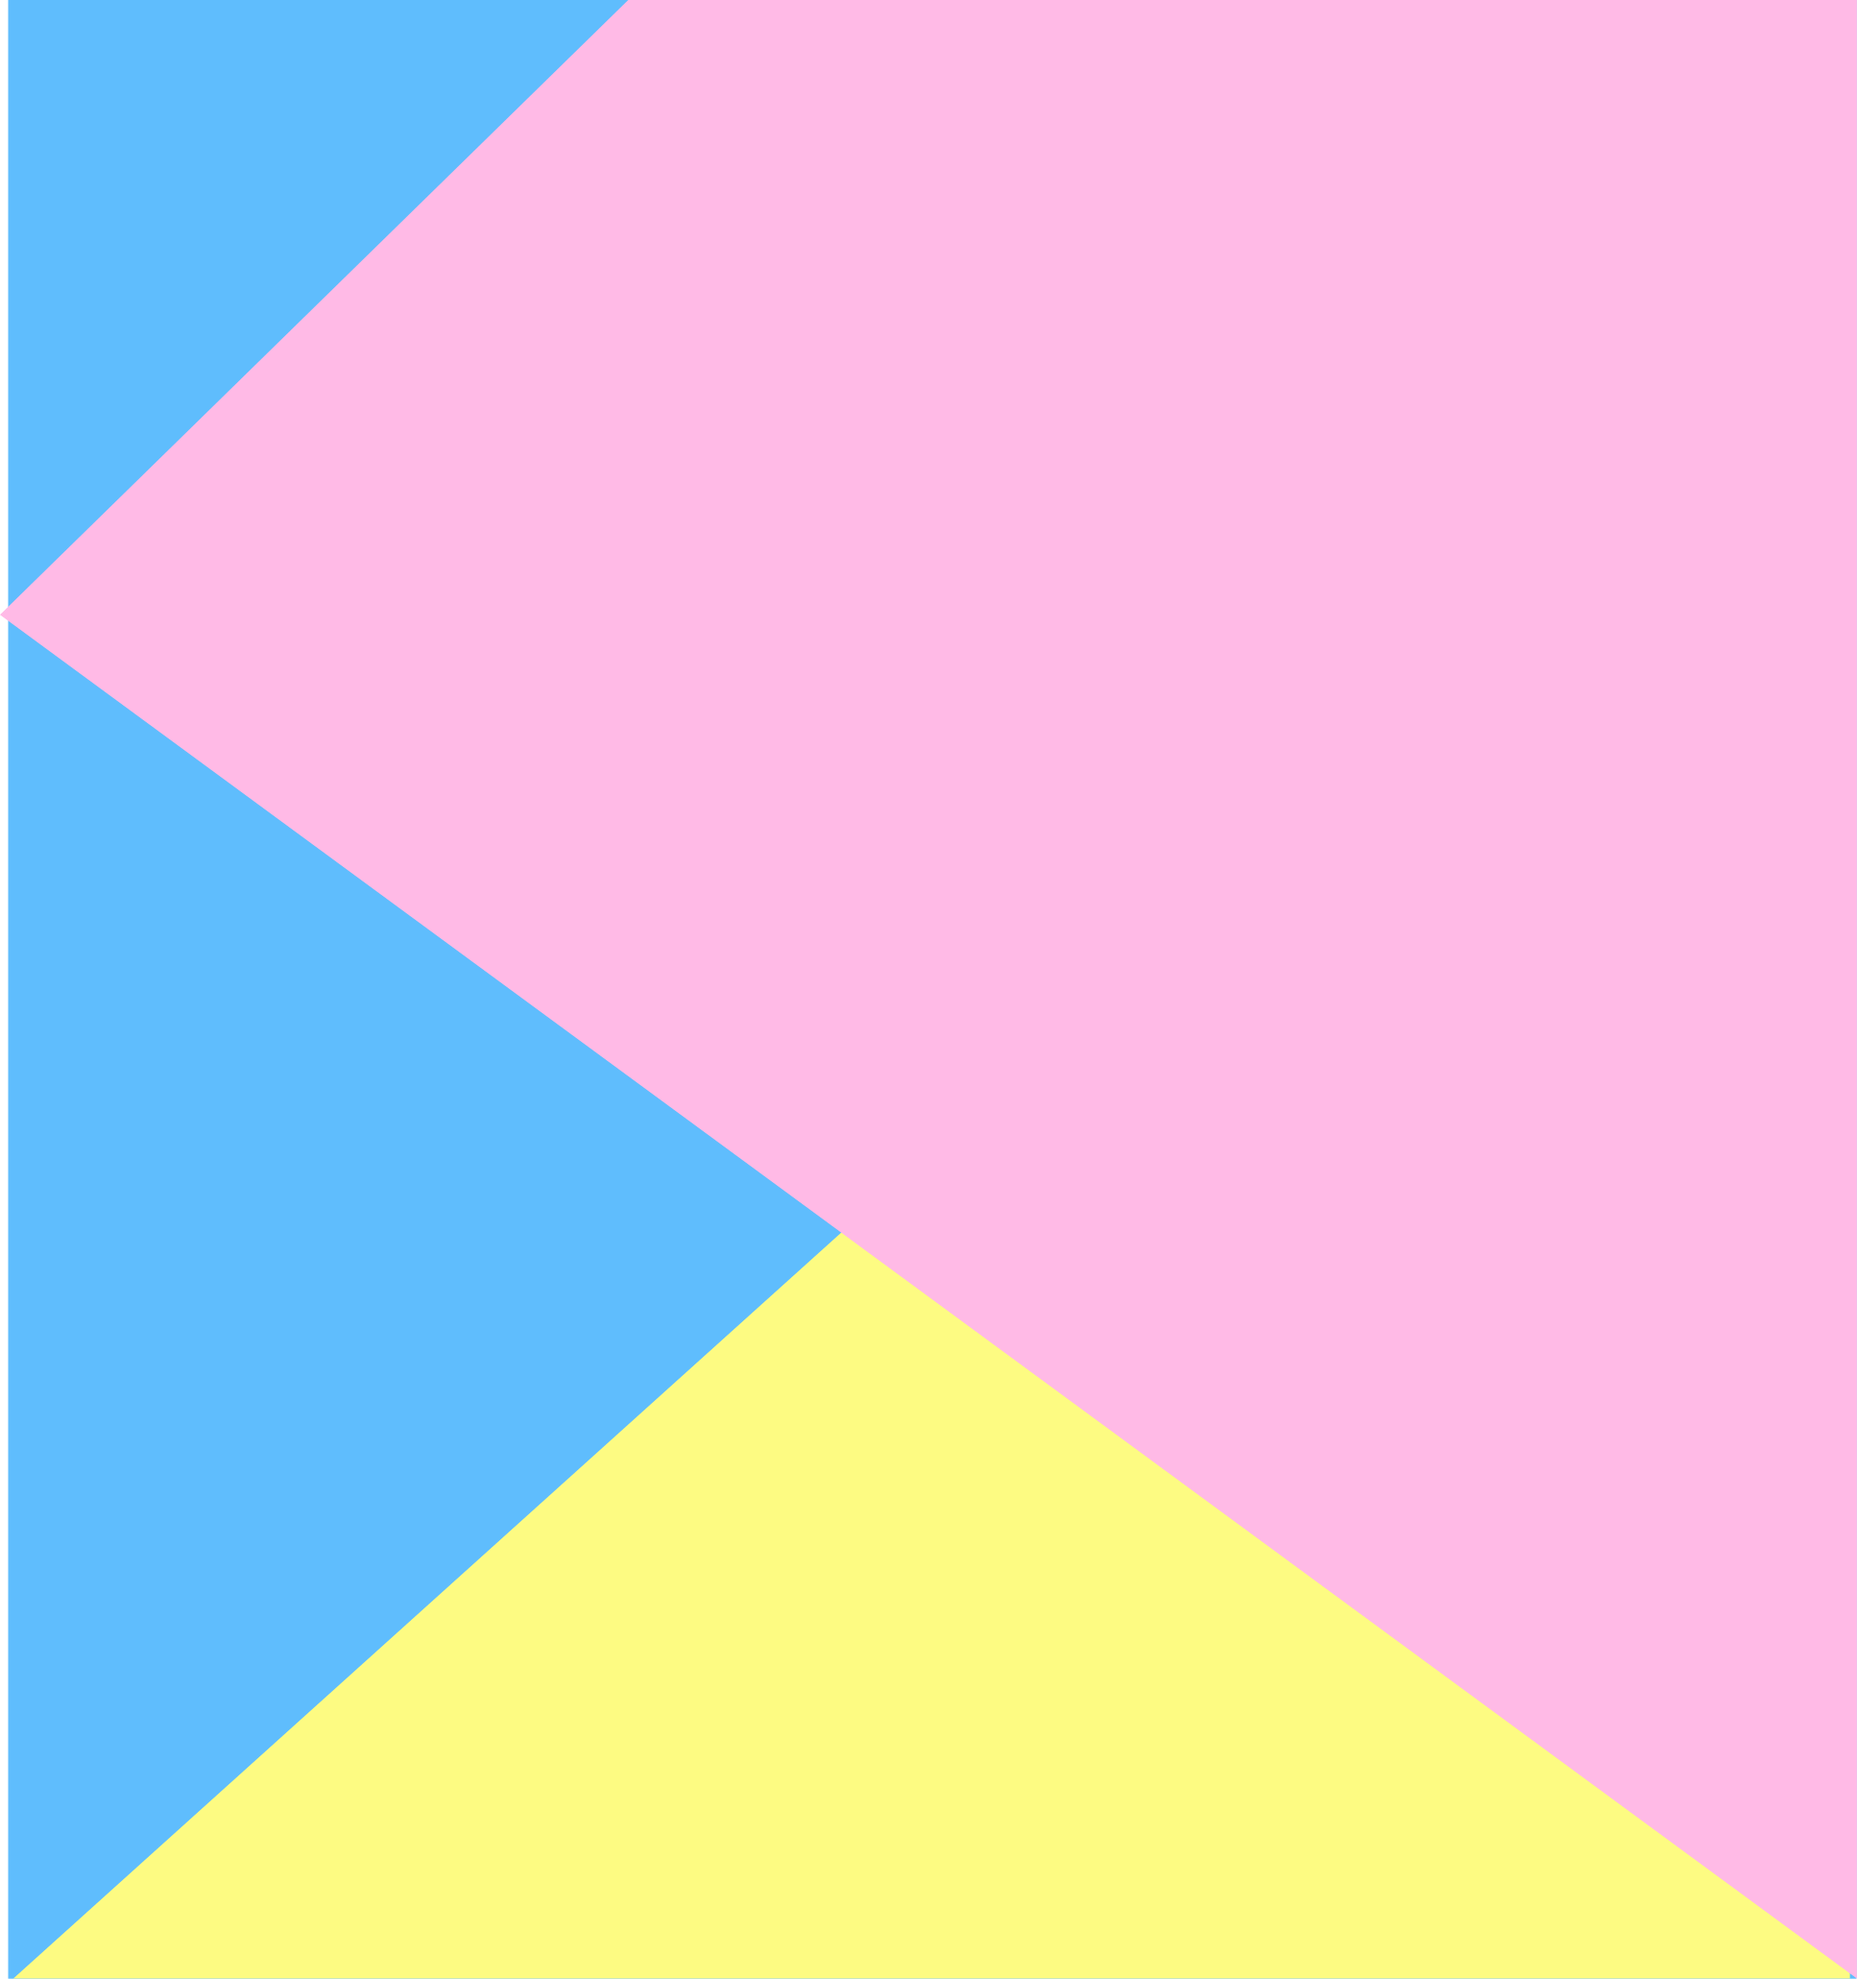
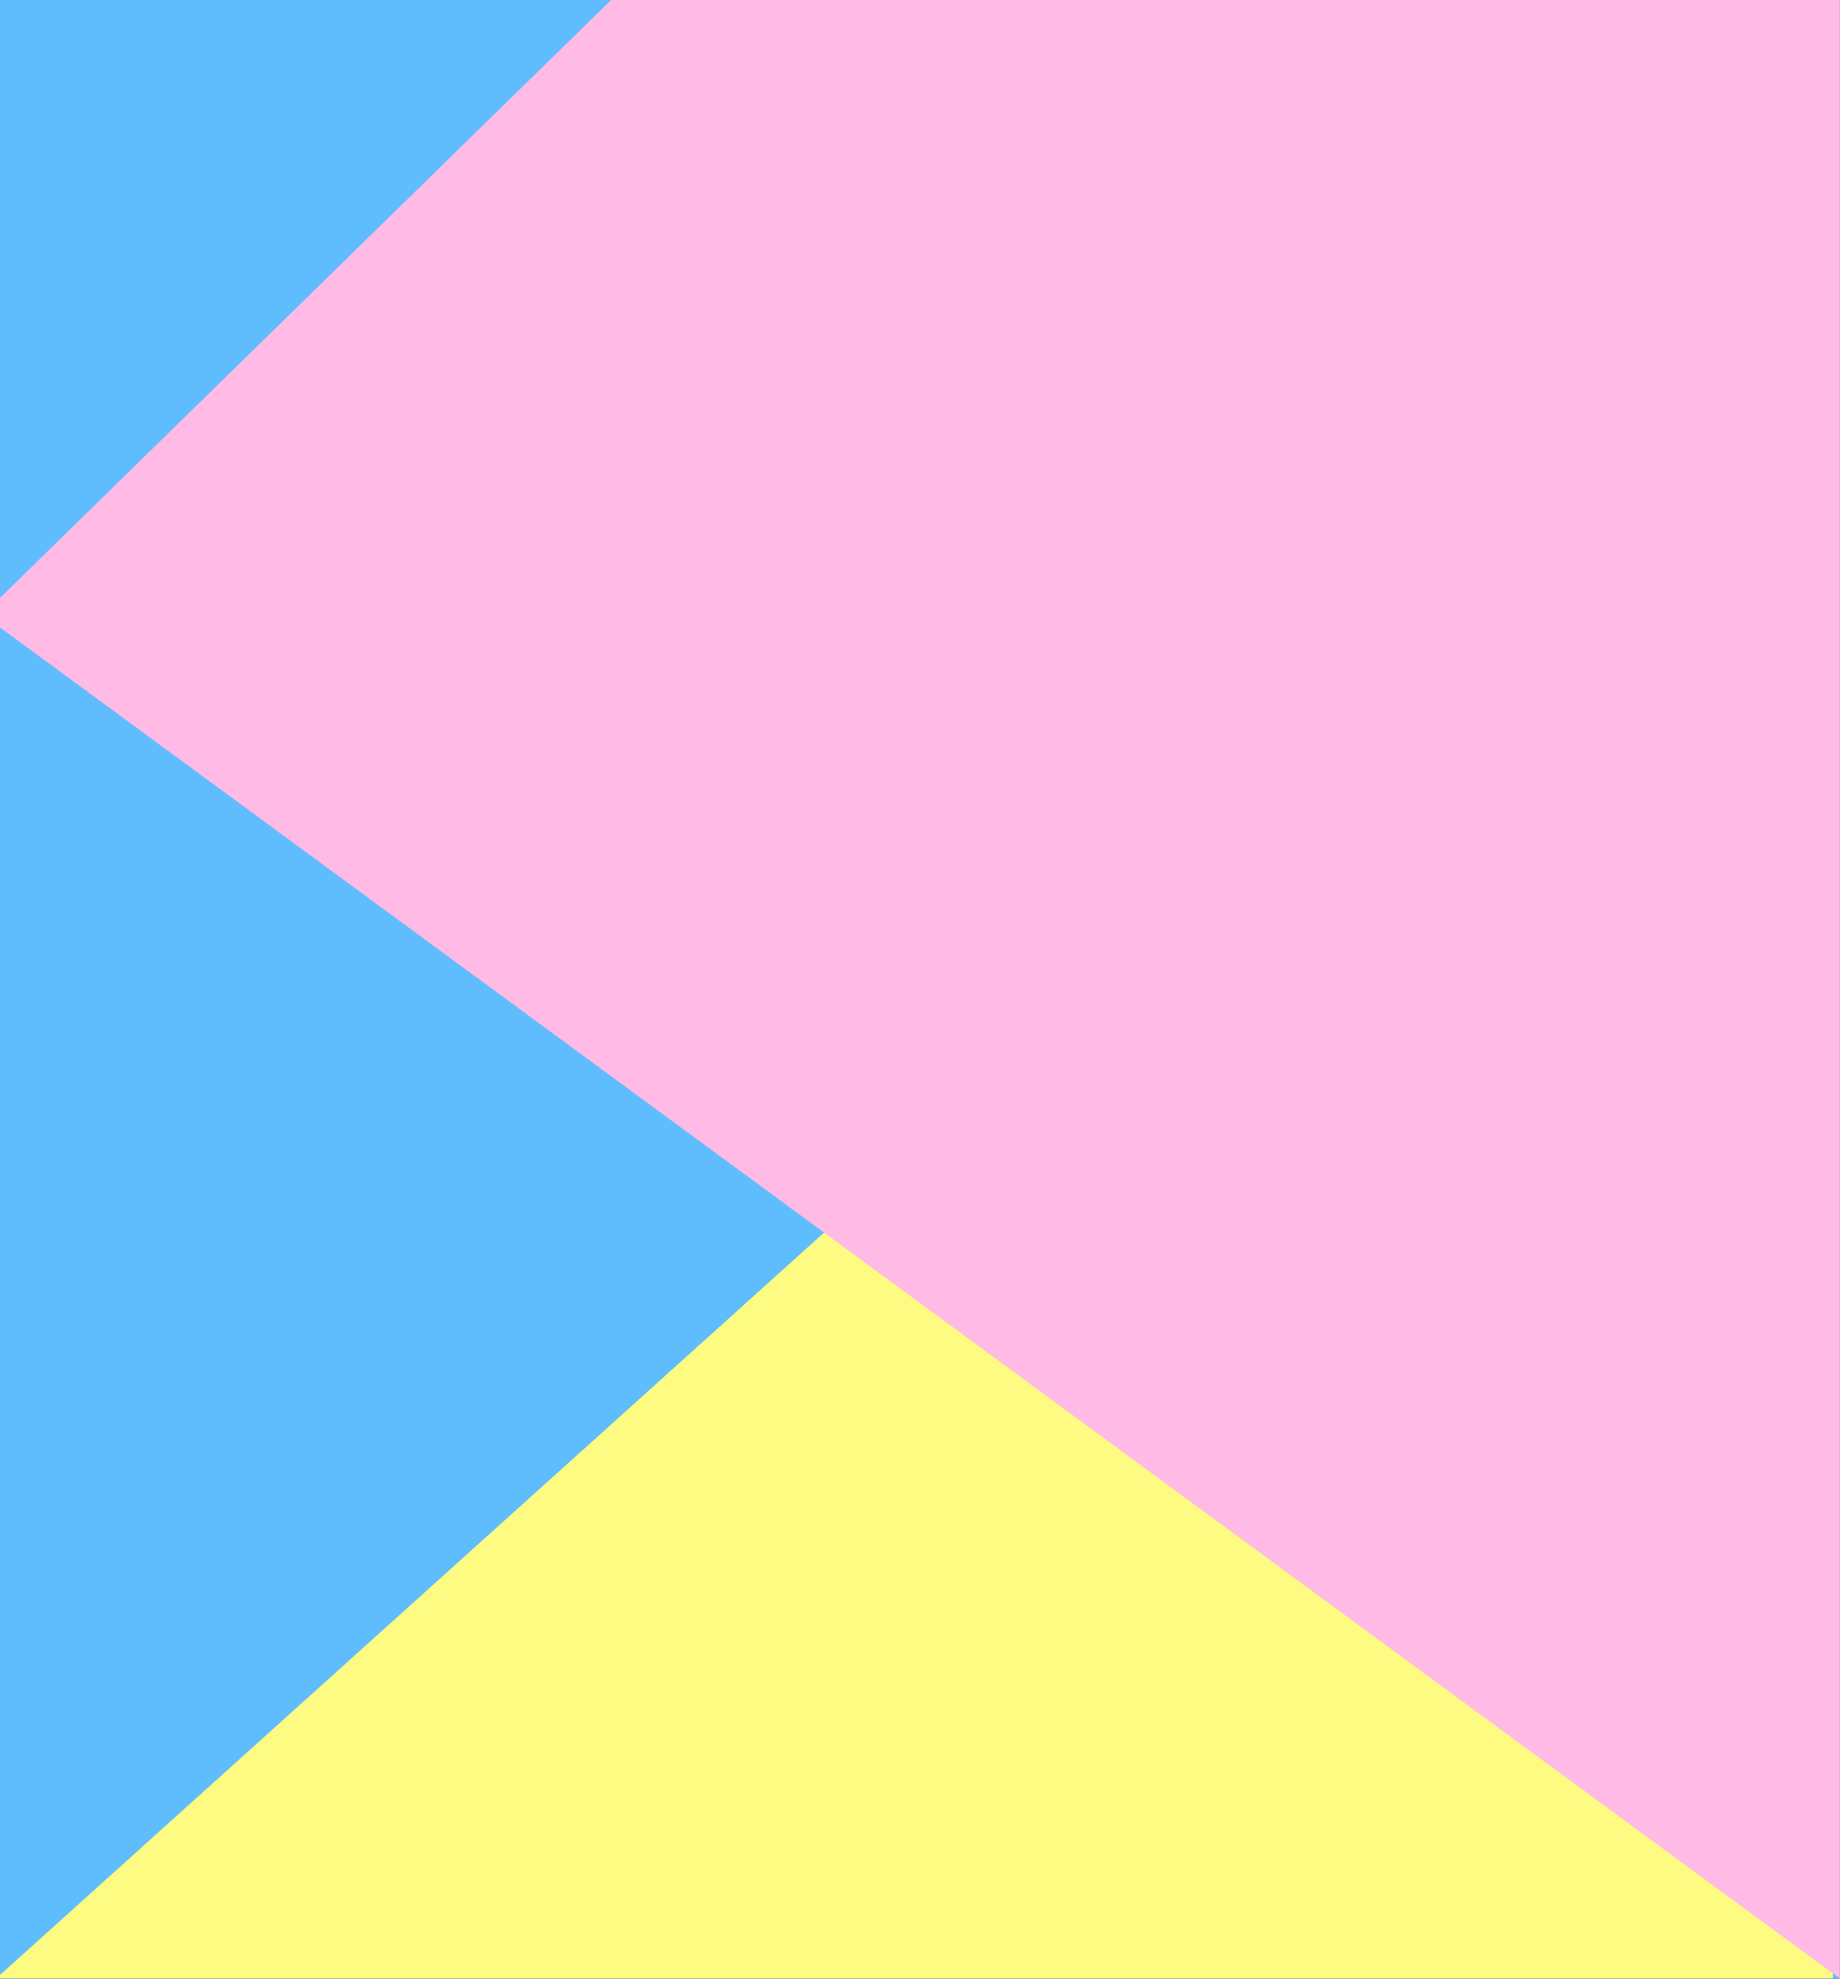
fix ui 29-11

diff --git a/DocumentRoot/wp-content/themes/twellv_v1/assets/css/contents/_howtowatch.scss b/DocumentRoot/wp-content/themes/twellv_v1/assets/css/contents/_howtowatch.scss
@@ -547,15 +547,19 @@
                 font-weight: bold;
                 position: relative;
                 font-size: 25px;
+                letter-spacing: 2.5px;
 
                 @include pc {
                     padding-bottom: get_pc(2);
                     padding-right: get_pc(25);
                     font-size: get_pc(25);
+                    letter-spacing: get_pc(2.5);
                 }
                 @include sp {
                     padding-bottom: get_sp(2);
                     padding-right: get_sp(20);
+                    font-size: get_sp(16);
+                    letter-spacing: get_pc(1.6);
                 }
 
                 &::after {
@@ -647,6 +651,7 @@
                         @include sp {
                             padding-left: get_sp(5);
                             font-size: get_sp(13.5);
+                            letter-spacing: get_sp(-1);
                         }
                     }
                 }

diff --git a/DocumentRoot/wp-content/themes/twellv_v1/assets/css/contents/_program_detail.scss b/DocumentRoot/wp-content/themes/twellv_v1/assets/css/contents/_program_detail.scss
@@ -1718,7 +1718,9 @@
                             background: #004898;
                             padding: 27px 0 34px;
                             height: 90px;
-                            display: block;
+                            display: flex;
+                            align-items: center;
+                            justify-content: center;
                             @include pc {
                                 height: get_pc(90);
                                 padding: get_pc(27) 0 get_pc(34);

diff --git a/DocumentRoot/wp-content/themes/twellv_v1/assets/css/contents/_program_special.scss b/DocumentRoot/wp-content/themes/twellv_v1/assets/css/contents/_program_special.scss
@@ -59,10 +59,10 @@
     */
     #program {
         padding-top: 41px;
-        transform: scaleX(1.015);
+        transform: scaleY(1.015);
+        @include bgsetup("../images/bg_special_program.png", center center, 100% 100%, no-repeat);
         padding-bottom: 112px;
         @include pc {
-            @include bgsetup("../images/bg_special_program.png", center center, 100% 100%, no-repeat);
             padding-top: get_pc(41);
             padding-bottom: get_pc(112);
         }

diff --git a/DocumentRoot/wp-content/themes/twellv_v1/assets/js/main.js b/DocumentRoot/wp-content/themes/twellv_v1/assets/js/main.js
@@ -165,7 +165,7 @@
                 if(!$(this).hasClass("active")) {
                     $(this).stop().fadeIn(1000).addClass("active");
                 } else {
-                    $(this).stop().fadeOut(1000).removeClass("active");
+                    $(this).stop().fadeOut(300).removeClass("active");
                 }
             });
         })

diff --git a/DocumentRoot/wp-content/themes/twellv_v1/inc/common/header_content.php b/DocumentRoot/wp-content/themes/twellv_v1/inc/common/header_content.php
@@ -17,9 +17,6 @@
                             <a href="<?php echo esc_url(home_url('/program/'))?>">番組一覧</a>
                         </li>
                         <li>
-                            <a href="#">ジャンル</a>
-                        </li>
-                        <li>
                             <a href="<?php echo esc_url(home_url('/present_event/'))?>">視聴者プレゼント</a>
                         </li>
                         <li>

diff --git a/DocumentRoot/wp-content/themes/twellv_v1/template-parts/program-list.php b/DocumentRoot/wp-content/themes/twellv_v1/template-parts/program-list.php
@@ -20,7 +20,7 @@ foreach ($terms as $t) {
 }
 
 $terms = array_merge($target_terms, $other_terms);
-
+//var_dump(get_field('bg_color', $term_list_object));
 $top_view = null;
 $programs_arr = [];
 foreach ($terms as $t) {
